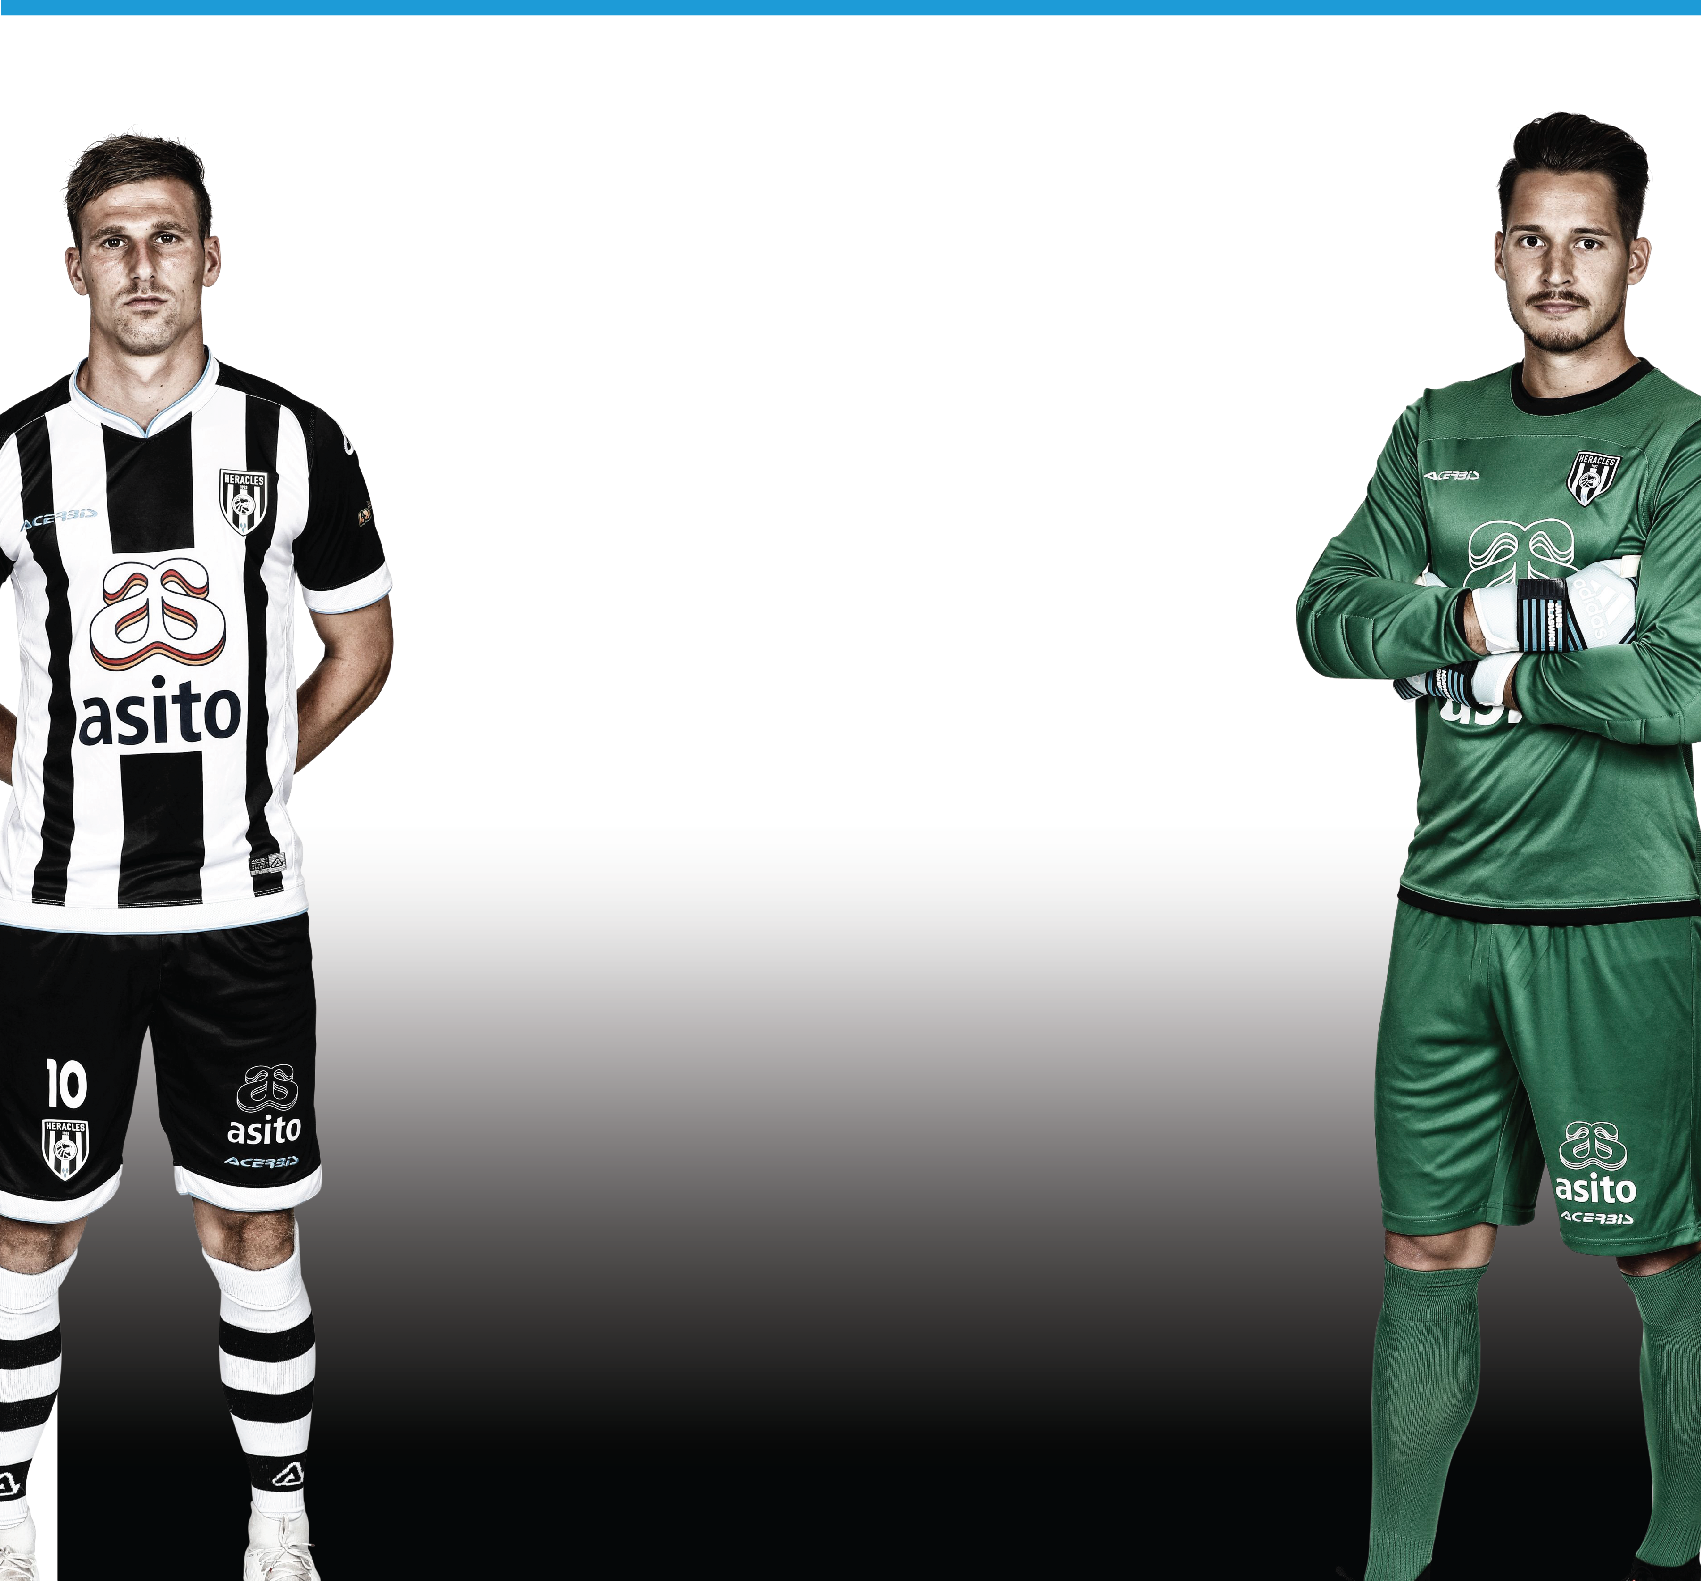
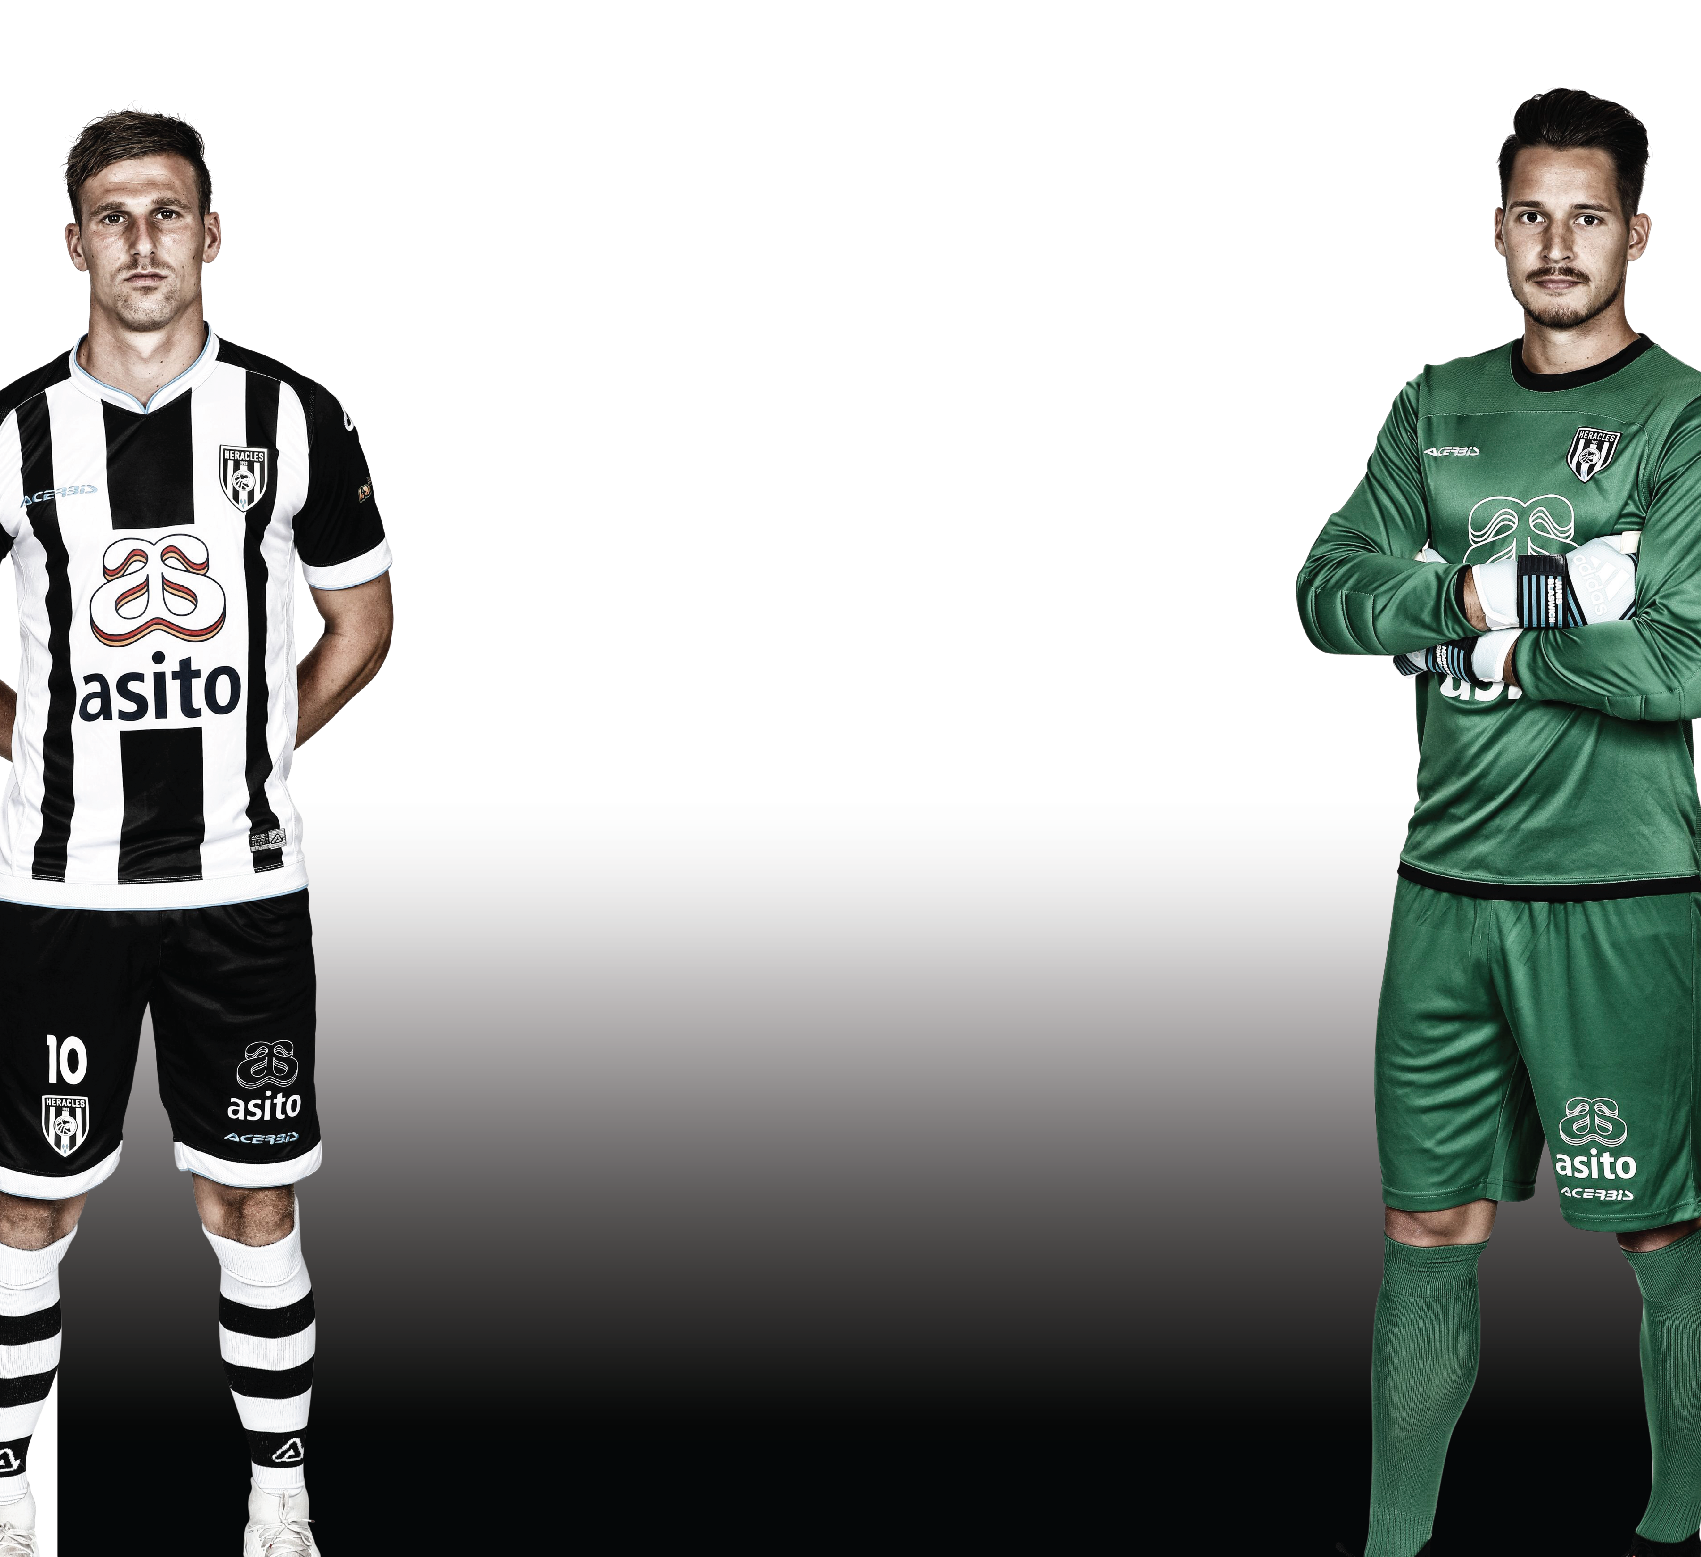
bg fixed

diff --git a/src/assets/css/style.css b/src/assets/css/style.css
@@ -24,9 +24,10 @@
 }
 
 body {
-    background-image: url("../img/bg.png");
-    background-size: 100%;
-    background-repeat: no-repeat
+    background-image: url("../img/sm-bg.png"),url("../img/bg.png")!important;
+    background-repeat: repeat-x, no-repeat!important;
+    background-position: top, bottom;
+    background-size: 100%
 }
 
 .header{
@@ -131,6 +132,7 @@ input{
     body {
         background-image: url("../img/sm-bg.png"), linear-gradient(#fff, #fff, #000)!important;
         background-repeat: repeat-x, no-repeat!important;
+        background-position: top, center;
     }
     .header h1{
         font-size: 30px;
@@ -162,10 +164,10 @@ input{
         border-right: 0px;
         padding: 0px;
     }
-    .custom-control-label {
-        font-size: 13px;
-        padding-top: .25rem;
+    .custom-control-inline{
+        margin: 10px 10px;
     }
+    
     .agreed{
         padding: 0px;
     }
@@ -201,7 +203,9 @@ input{
 
 @media screen and (width: 768px){
     body{
-        background-position: bottom;
+        background-image: url("../img/sm-bg.png"),url("../img/bg.png")!important;
+        background-repeat: repeat-x, no-repeat!important;
+        background-position: top, bottom;
 
     }
     .header{
@@ -229,7 +233,6 @@ input{
     }
     .gender{
         min-width: 100%;
-        margin-bottom: 10px;
     }
     .birth{
         margin-bottom: 10px!important;
@@ -238,7 +241,7 @@ input{
         margin: 0px 0px 20px;
     }
     .custom-control-inline{
-        margin: 20px 0px;
+        margin: 10px 10px;
     }
     .button[type="submit"]{
         width:90%
